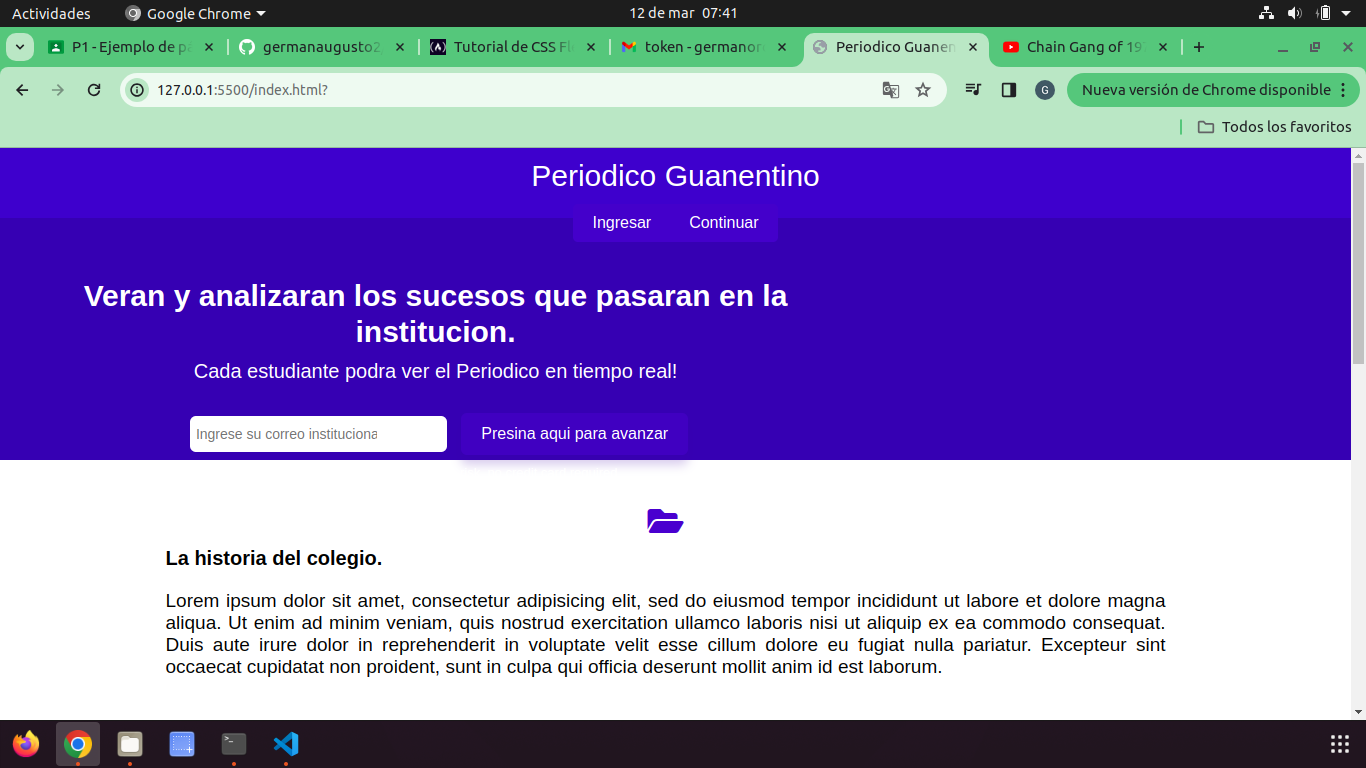
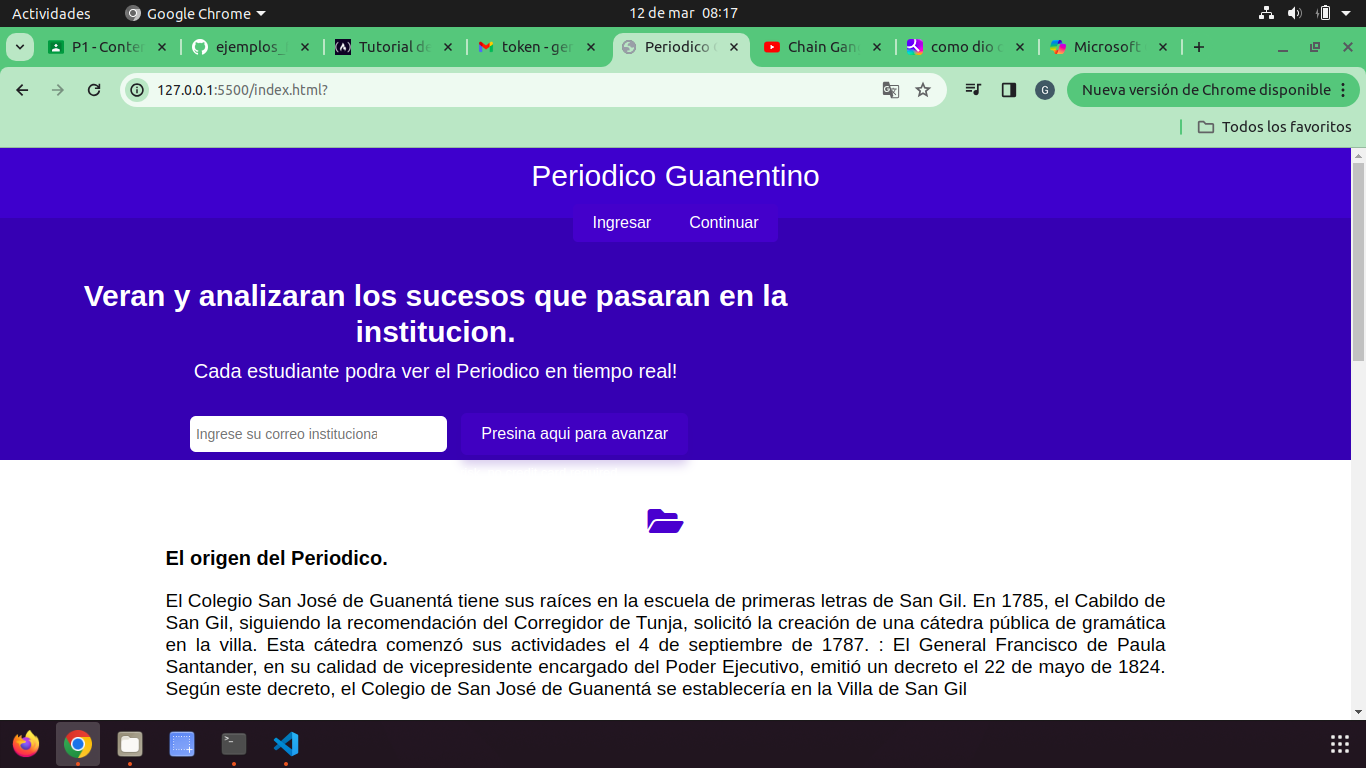
si

Changed region(s): [[0.123, 0.7188, 0.8609, 0.9062], [0.4305, 0.0, 0.8302, 0.0938], [0.0922, 0.0312, 0.3997, 0.0938]]

diff --git a/index.html b/index.html
@@ -55,9 +55,10 @@
           <div class="flex">
             <div class="stat">
               <i class="fa fa-folder-open fa-2x" aria-hidden="true"></i>
-              <h3 class="title">La historia del colegio.</h3>
-              <p class="text">Lorem ipsum dolor sit amet, consectetur adipisicing elit, sed do eiusmod tempor incididunt ut labore et dolore magna aliqua. Ut enim ad minim veniam, quis nostrud exercitation ullamco laboris nisi ut aliquip ex ea commodo consequat. Duis aute irure dolor in reprehenderit in voluptate velit esse cillum dolore eu fugiat nulla pariatur.
-                Excepteur sint occaecat cupidatat non proident, sunt in culpa qui officia deserunt mollit anim id est laborum.</p>
+              <h3 class="title">El origen del Periodico.</h3>
+              <p class="text">El Colegio San José de Guanentá tiene sus raíces en la escuela de primeras letras de San Gil. En 1785, el Cabildo de San Gil, siguiendo la recomendación del Corregidor de Tunja, solicitó la creación de una cátedra pública de gramática en la villa. Esta cátedra comenzó sus actividades el 4 de septiembre de 1787.
+                : El General Francisco de Paula Santander, en su calidad de vicepresidente encargado del Poder Ejecutivo, emitió un decreto el 22 de mayo de 1824. Según este decreto, el Colegio de San José de Guanentá se establecería en la Villa de San Gil
+              </p>
             </div>
             <div class="stat">
               <i class="fa fa-graduation-cap fa-2x" aria-hidden="true"></i>
